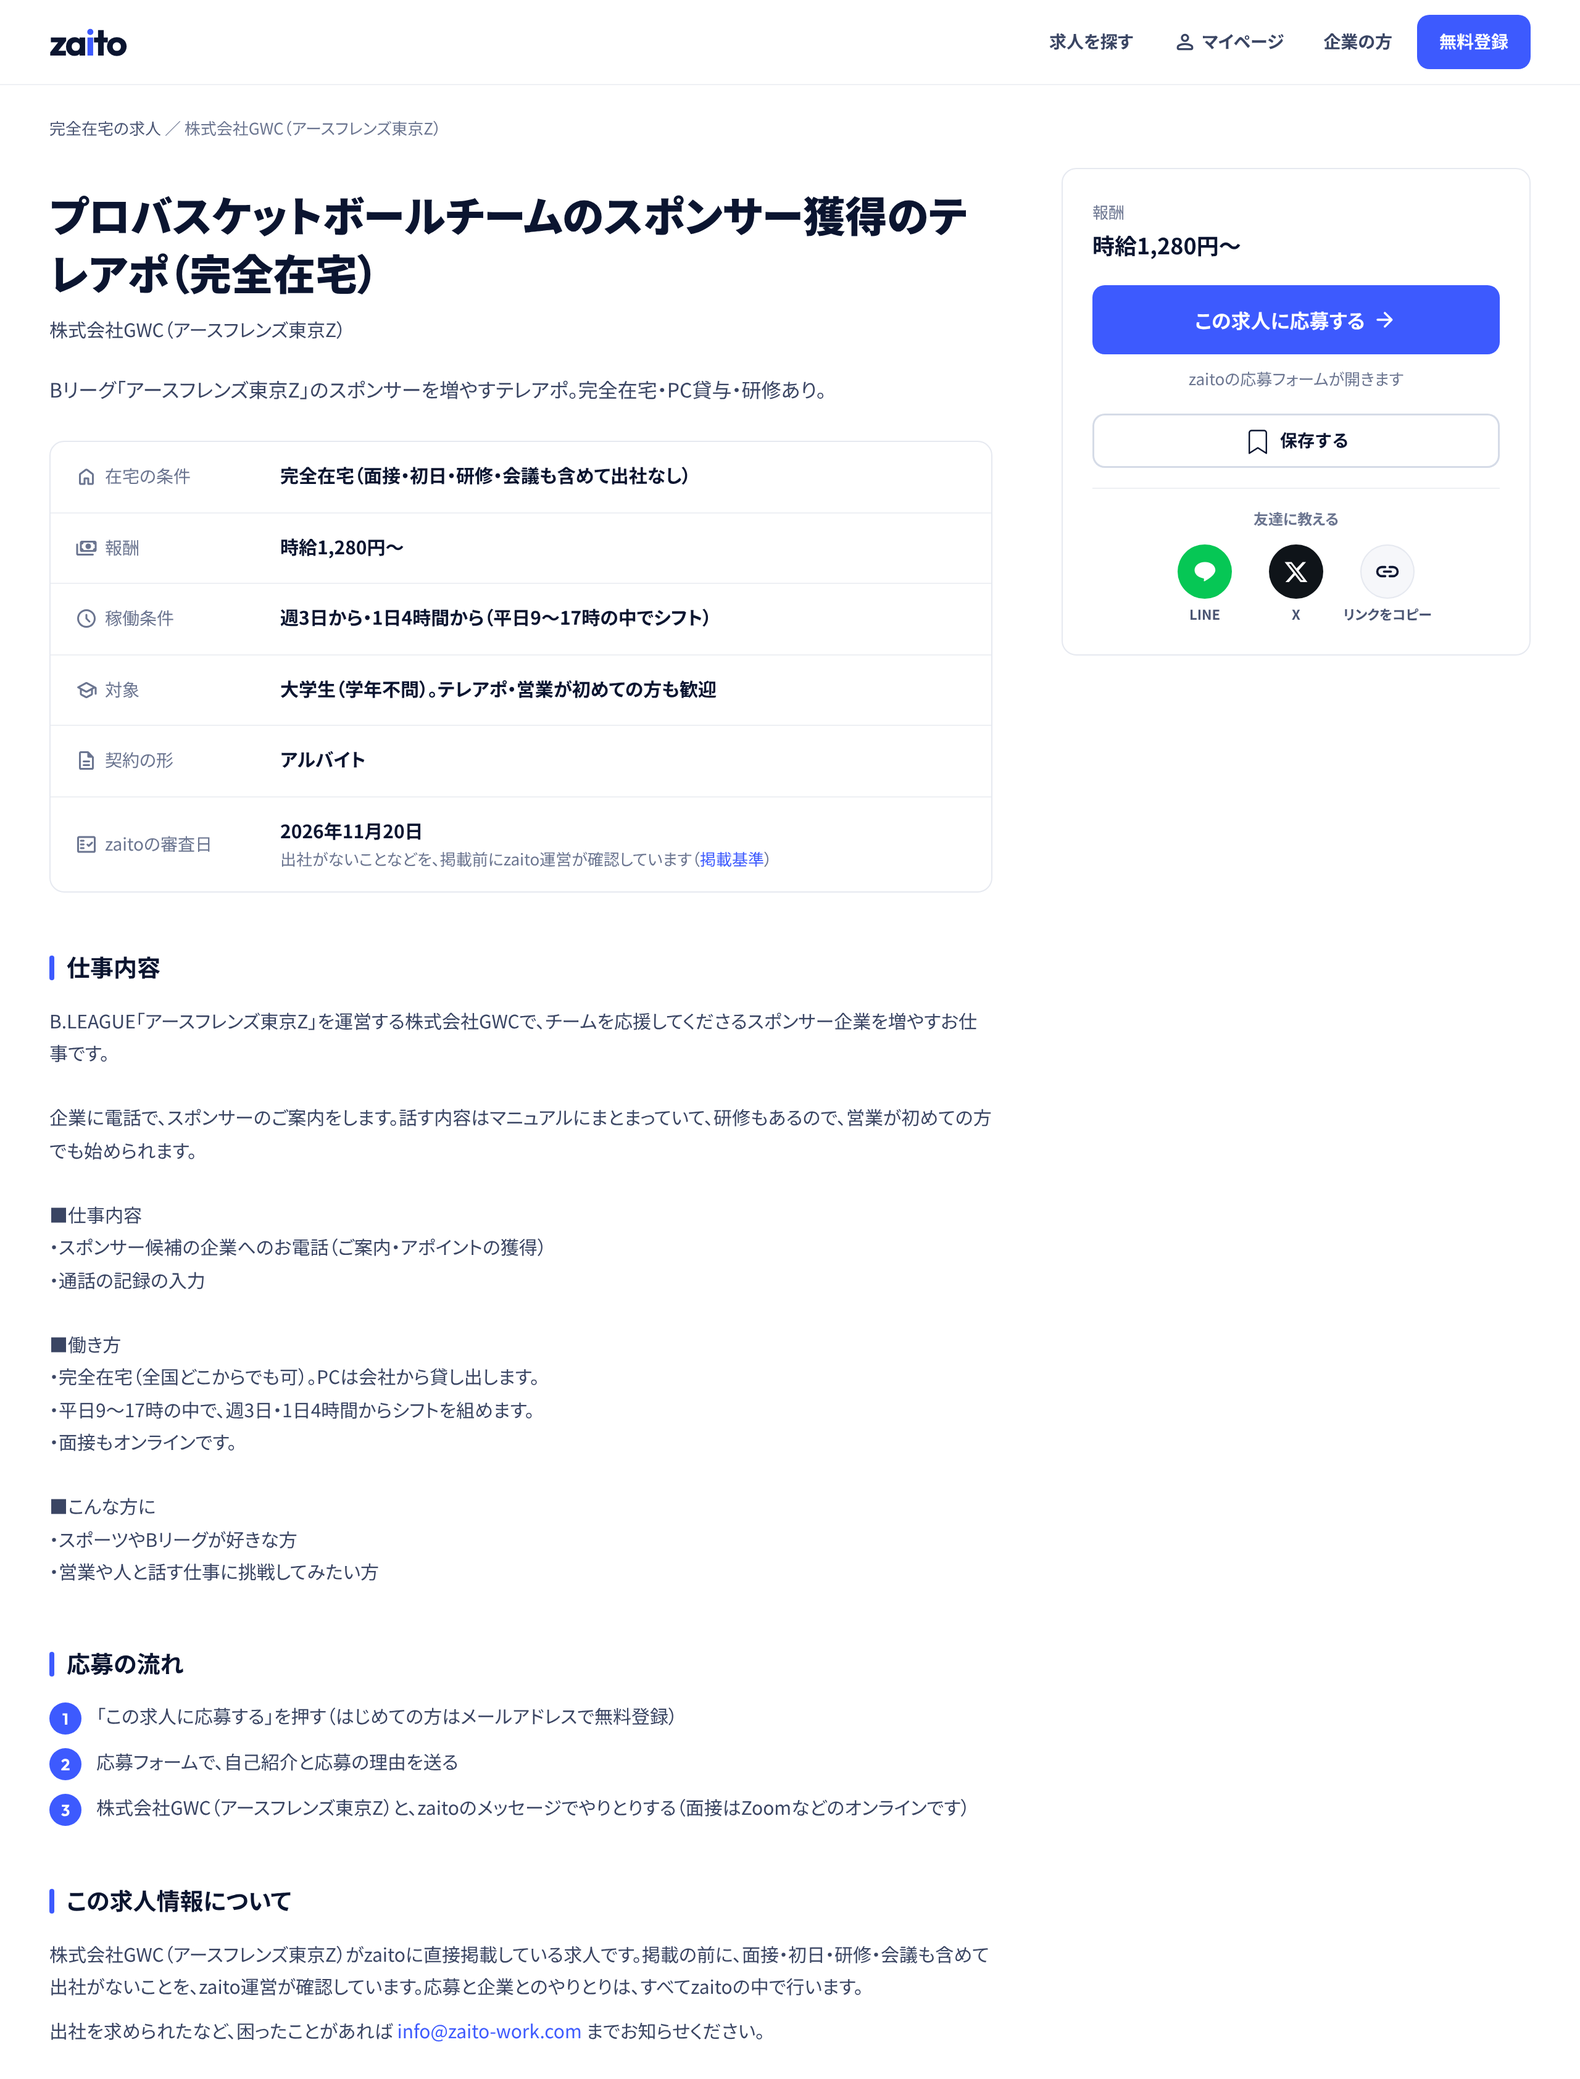
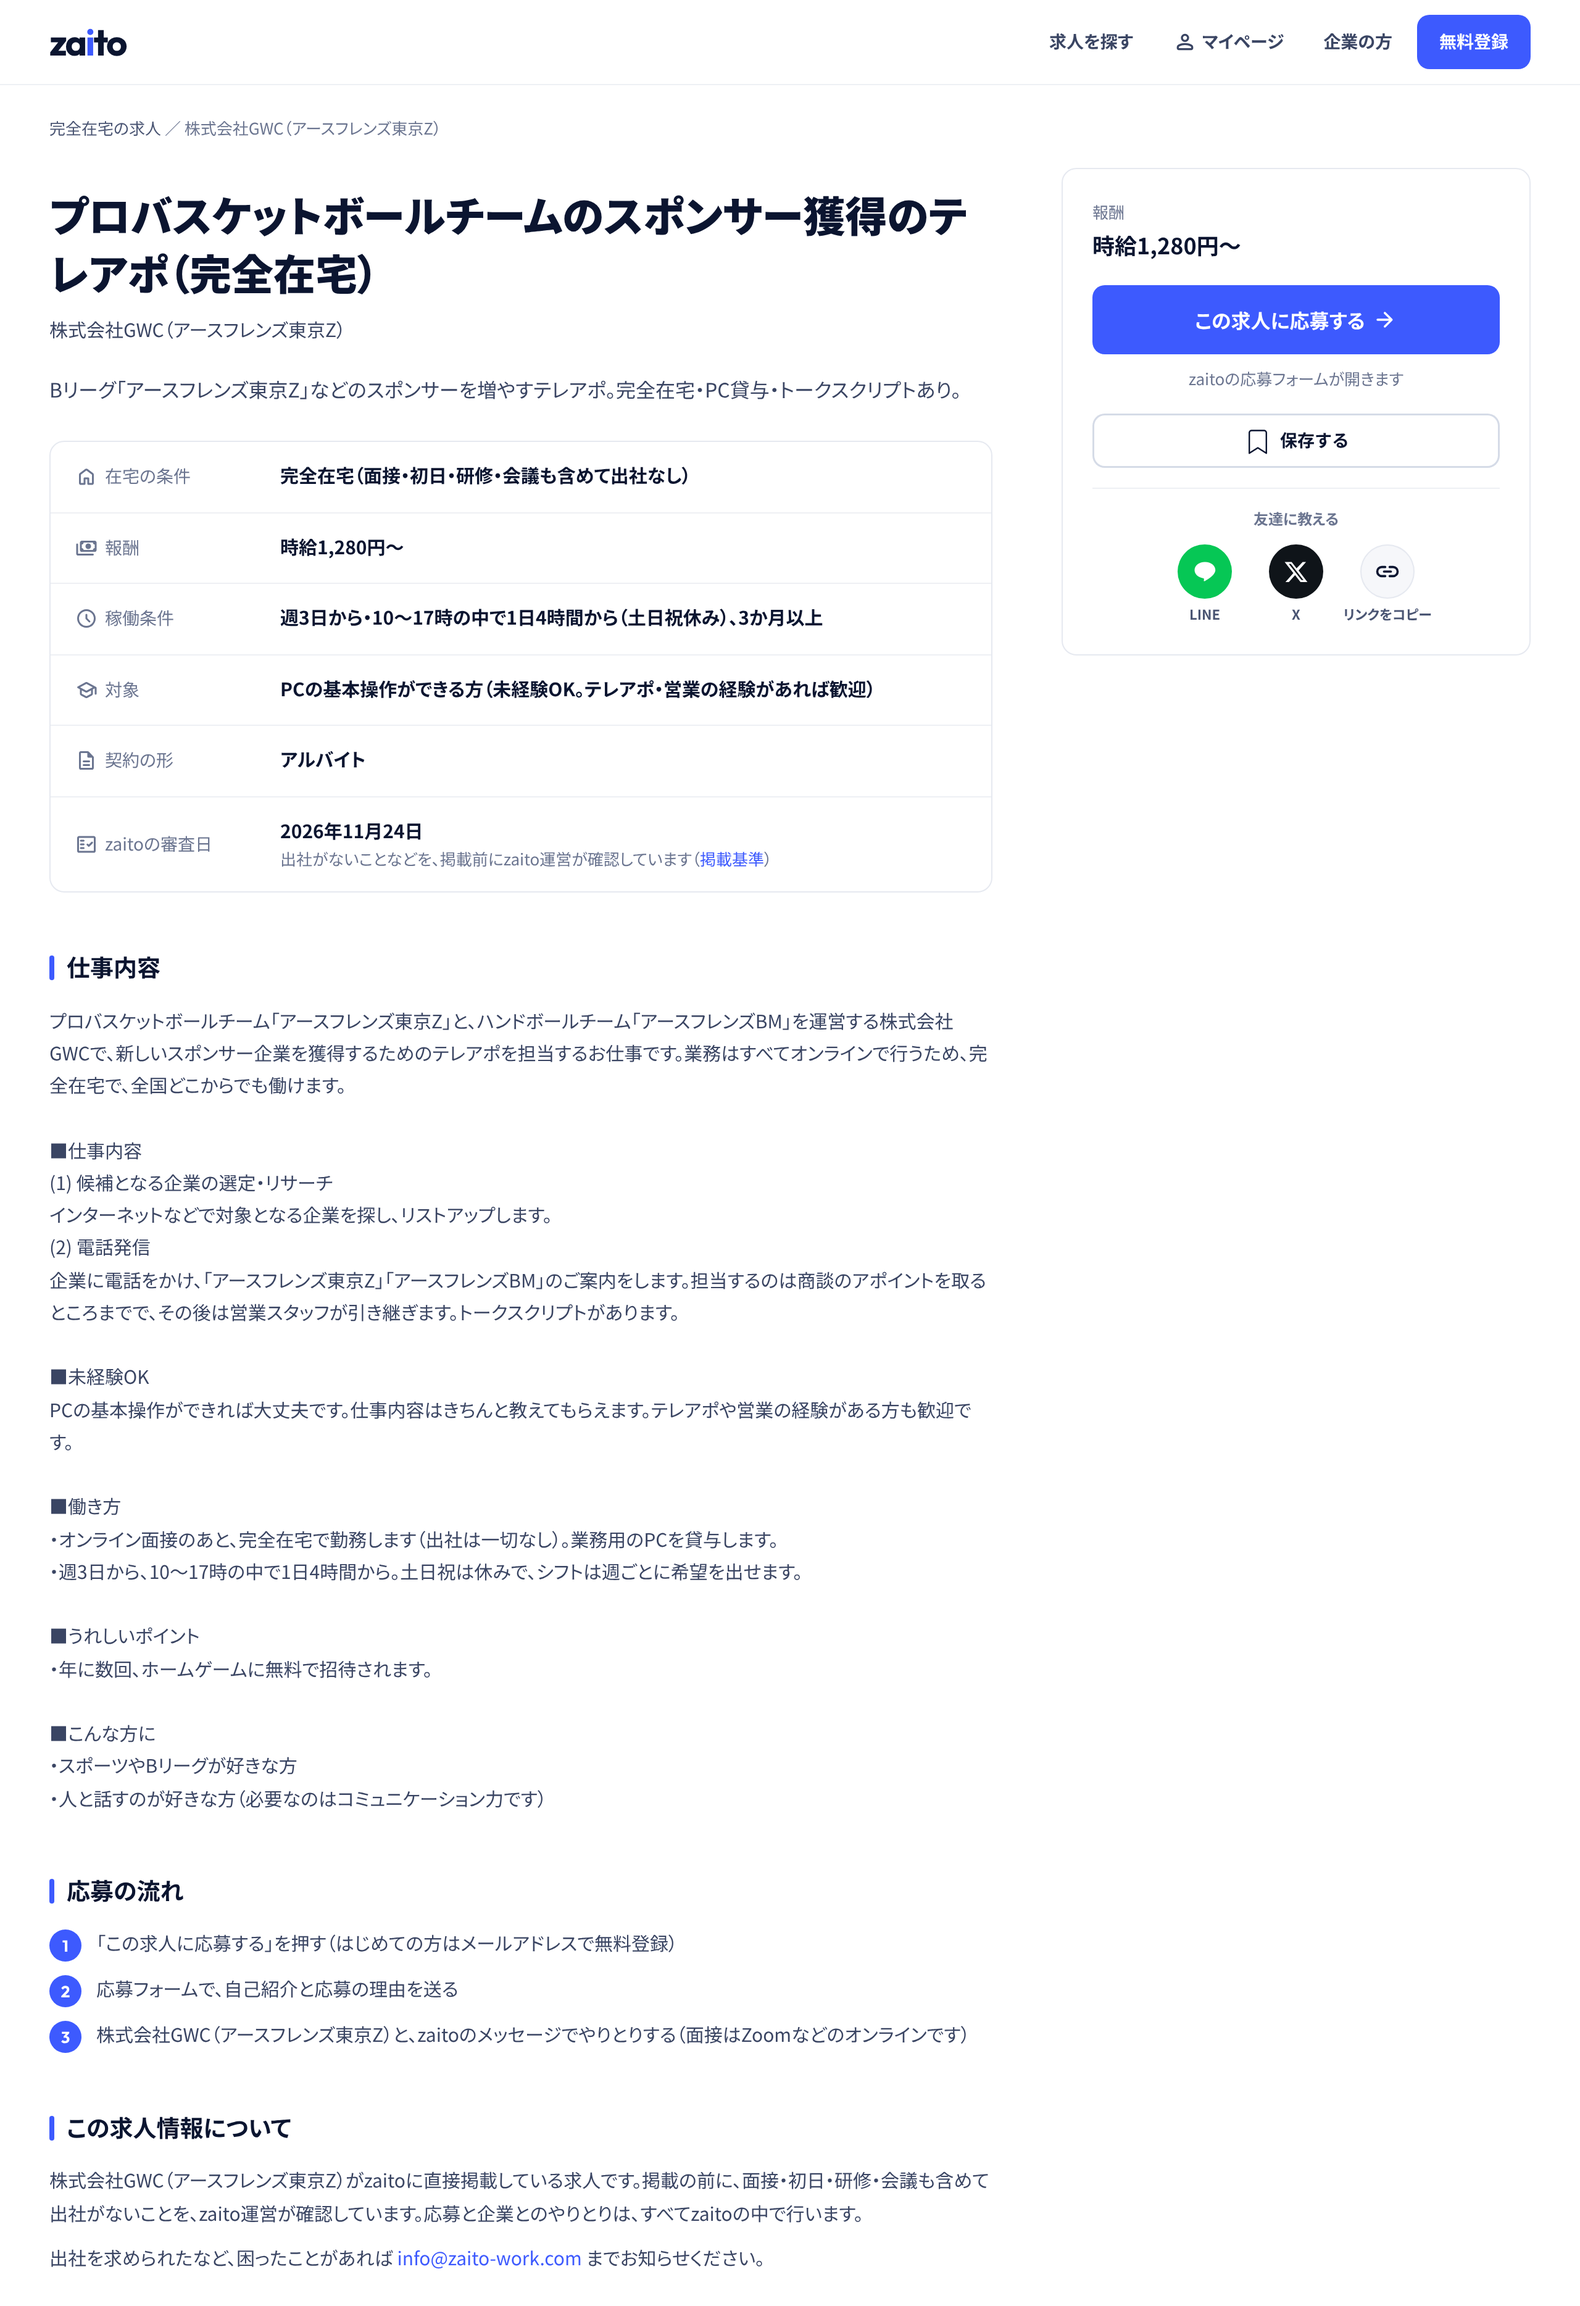
GWCへの返信案と掲載イメージ：元の求人の内容に合わせる（BM・リサーチ業務・トークスクリプト・10〜17時・土日祝休み・ホームゲーム招待）
Claude-Session: https://claude.ai/code/session_01Nc8VBXCZiKQdU3ws5s6smf

diff --git a/sales/返信_2026-11-20_GWC.md b/sales/返信_2026-11-20_GWC.md
@@ -36,7 +36,7 @@ https://zaito-work.com/
 ・採用した学生が、働き始めてから2週間以内に自己都合で辞めた場合は、成果報酬を全額お返しいたします。
 
 ■掲載内容の案
-いま募集されている在宅のテレアポ（スポンサー獲得）の求人をもとに、掲載内容の案を作成しました。このような内容で掲載してよろしいでしょうか。
+いま募集されている在宅のテレアポ（スポンサー獲得）の求人の内容をもとに、大学生に伝わりやすいよう整理して、掲載内容の案を作成しました。このような内容で掲載してよろしいでしょうか。
 実際の画面でのイメージ（パソコン・スマートフォン）も添付いたしましたので、あわせてご覧ください。
 
 ――――――――――
@@ -47,23 +47,32 @@ https://zaito-work.com/
 株式会社GWC（アースフレンズ東京Z）
 
 【仕事内容】
-B.LEAGUE「アースフレンズ東京Z」を運営する株式会社GWCで、チームを応援してくださるスポンサー企業を増やすお仕事です。
-企業に電話で、スポンサーのご案内をします。話す内容はマニュアルにまとまっていて、研修もあるので、営業が初めての方でも始められます。
-・スポンサー候補の企業へのお電話（ご案内・アポイントの獲得）
-・通話の記録の入力
+プロバスケットボールチーム「アースフレンズ東京Z」と、ハンドボールチーム「アースフレンズBM」を運営する株式会社GWCで、新しいスポンサー企業を獲得するためのテレアポを担当するお仕事です。業務はすべてオンラインで行うため、完全在宅で、全国どこからでも働けます。
 
-【働き方】
-・完全在宅（全国どこからでも可）。PCは会社から貸し出します。
-・面接もオンラインです。
+■仕事内容
+(1) 候補となる企業の選定・リサーチ
+インターネットなどで対象となる企業を探し、リストアップします。
+(2) 電話発信
+企業に電話をかけ、「アースフレンズ東京Z」「アースフレンズBM」のご案内をします。担当するのは商談のアポイントを取るところまでで、その後は営業スタッフが引き継ぎます。トークスクリプトがあります。
+
+■未経験OK
+PCの基本操作ができれば大丈夫です。仕事内容はきちんと教えてもらえます。テレアポや営業の経験がある方も歓迎です。
+
+■働き方
+・オンライン面接のあと、完全在宅で勤務します（出社は一切なし）。業務用のPCを貸与します。
+・週3日から、10〜17時の中で1日4時間から。土日祝は休みで、シフトは週ごとに希望を出せます。
+
+■うれしいポイント
+・年に数回、ホームゲームに無料で招待されます。
+
+■こんな方に
+・スポーツやBリーグが好きな方
+・人と話すのが好きな方（必要なのはコミュニケーション力です）
 
 【給与】時給1,280円〜
-【勤務】週3日から・1日4時間から（平日9〜17時の中でシフト）、3か月以上
-【対象】大学生（学年不問）。テレアポ・営業が初めての方も歓迎
+【勤務】週3日から・10〜17時の中で1日4時間から（土日祝休み）、3か月以上
+【対象】PCの基本操作ができる方（未経験OK。テレアポ・営業の経験があれば歓迎）
 【雇用形態】アルバイト
-
-【こんな方に】
-・スポーツやBリーグが好きな方
-・営業や人と話す仕事に挑戦してみたい方
 ――――――――――
 
 給与や勤務の条件など、実際と違うところや、書き加えたいことがあればお知らせください。大学生のインターンなど、ほかにも在宅でお任せいただける業務があれば、あわせて掲載いたします。
